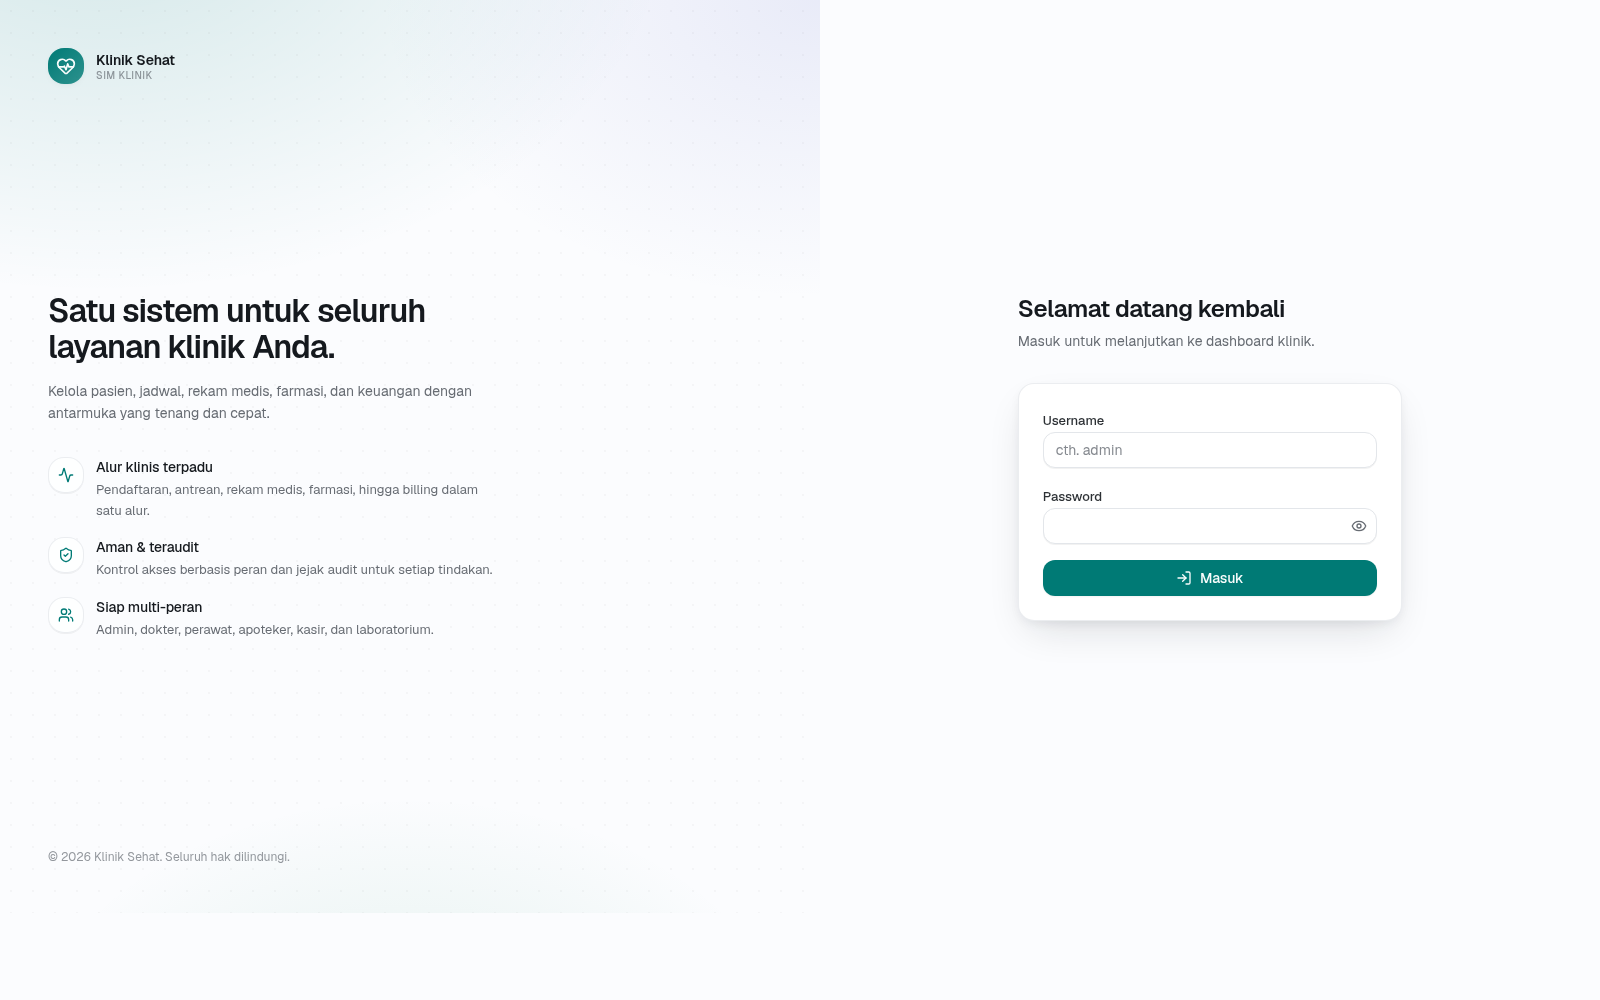
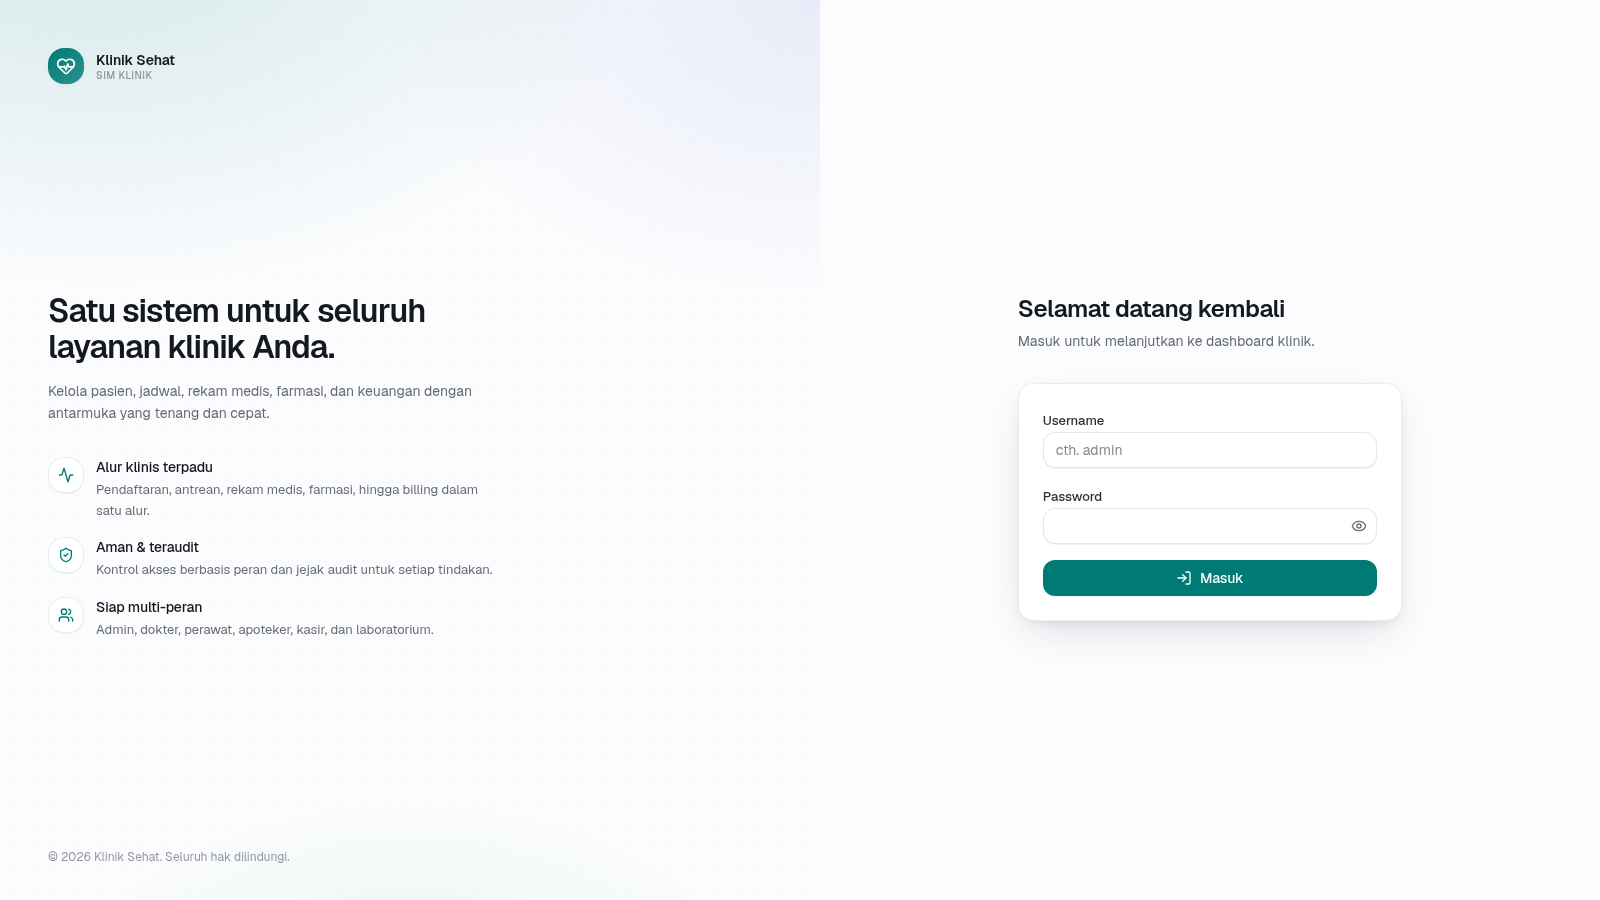
fix: crop project screenshots to 16:9, darken muted text, emerald number tiles for WCAG AA

diff --git a/src/app/globals.css b/src/app/globals.css
@@ -7,7 +7,7 @@
   --color-border: #16201B;
   --color-text: #17211C;
   --color-text-secondary: #4E5A53;
-  --color-text-muted: #8B948D;
+  --color-text-muted: #677168;
   --color-accent: #0F6B52;
   --color-accent-hover: #0A5742;
   --color-accent-vivid: #80680F;

diff --git a/src/components/Philosophy.tsx b/src/components/Philosophy.tsx
@@ -10,7 +10,7 @@ const cardColors = [
 
 const numberStyles = [
   'bg-accent text-white',
-  'bg-accent-vivid dark:bg-accent-vivid-dark text-text',
+  'bg-accent-green text-white',
 ];
 
 export function Philosophy() {
